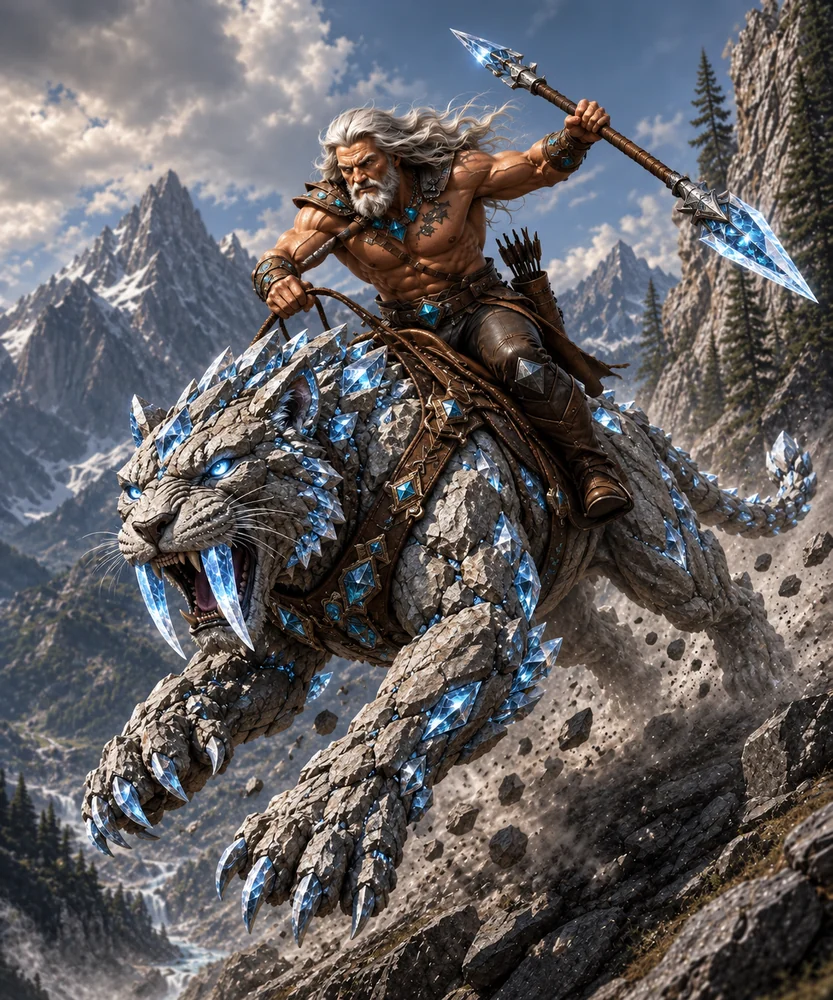
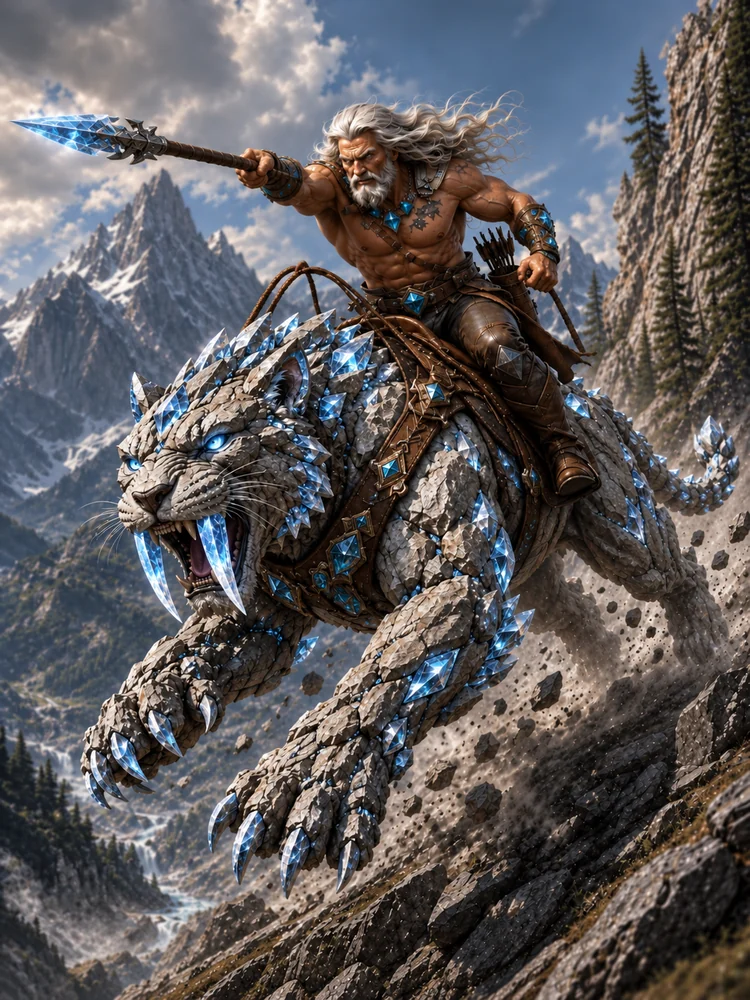
feat(cards): Cragrider is Crystal Sabor, with the plate to match
Name and art together. `bore_rohojohn` stays the id — saves and deck codes
are keyed on it, and so is the art file, which is why the plate goes to
`bore_rohojohn.webp` rather than to anything resembling either name.

The old name was in NINE places, only one of which was the card: a
custom-deck comment, the marker beside its lore entry, the War Mount
comments in combat.ts and twice in types.ts, and three test titles. All
renamed, because a test called "Cragrider's War Mount" names a card that
no longer exists and sends the next reader looking for it. The lore line
itself never used the name, so the prose is untouched.

Plate through the usual pipeline (public/cards/README.md): 1086x1448 in,
750x1000 out — the folder's commonest shape — 233K down to 203K, replacing
the Cragrider plate added an hour ago.

Two spellings arrived with this one: the file is `bore_Crystel Sabor.png`
and the request said "crystal sabor". Went with the request.

diff --git a/src/engine/types.ts b/src/engine/types.ts
@@ -1378,7 +1378,7 @@ export interface CardDef {
    *  comes from. The card face prints "Wind Wake — every landed hit shoves…"
    *  instead of an unnamed sentence. Per-CARD, not per-field, because the same
    *  mechanic is named differently on different cards: summonSelfShields is
-   *  "War Ready" on WarPhant and "War Mount" on Cragrider. */
+   *  "War Ready" on WarPhant and "War Mount" on Crystal Sabor. */
   passiveNames?: Record<string, string>;
   /** Intimidation (Oakgre): while this card lives, every ENEMY within `rows`
    *  rows of it whose own DMG is LOWER than this card's loses `dmg` from its
@@ -1433,7 +1433,7 @@ export interface CardDef {
   /** Fog Settlement (Misty): on summon, its owner's battlefield gains N rounds
    *  of the fog (see PlayerState.foggedRounds). */
   summonFog?: number;
-  /** War Mount (Cragrider): a mounted Ranger also mauls what it stands beside —
+  /** War Mount (Crystal Sabor): a mounted Ranger also mauls what it stands beside —
    *  its BASIC gains +N damage against a target inside melee reach. Modelled as
    *  a proximity bonus rather than a literal second attack, which keeps it on
    *  one damage path instead of inventing a dual-attack system. */

diff --git a/src/engine/combat.ts b/src/engine/combat.ts
@@ -1326,7 +1326,7 @@ export function resolveHit(
     // on the board shows the halved figure. Scaling again here would quarter it.
     if (opts.kind !== "basic" && attacker.statScale != null && attacker.statScale !== 1)
       remaining = Math.max(0, Math.floor(remaining * attacker.statScale));
-    // War Mount (Cragrider): the mount mauls whatever the Ranger stands beside —
+    // War Mount (Crystal Sabor): the mount mauls whatever the Ranger stands beside —
     // its BASIC hits an ADJACENT target for extra. Applied here rather than in
     // effectiveDmg because it depends on the TARGET's distance, which
     // effectiveDmg has no way to see.

diff --git a/src/data/custom-decks.ts b/src/data/custom-decks.ts
@@ -218,7 +218,7 @@ const STANDARD_DECKS: PremadeDeck[] = [
     // deep in a sixteen-card deck.
     // Refresh: dropped aqua_piranha (appeared constantly, measured ~0 impact) and
     // bore_armadillo (rarely reached the board) for Misty (Fog utility) and
-    // Cragrider — a ranged 7 that gives the grind deck a backline poke it lacked.
+    // Crystal Sabor — a ranged 7 that gives the grind deck a backline poke it lacked.
     cards: [
       "bore_hillbilly", "aqua_misty", "aqua_subcool", "aqua_kinguin", "aqua_octoirate",
       "aqua_owlette", "bore_shift", "aqua_blackbeard", "bore_monger", "aqua_polarbear",

diff --git a/src/engine/__tests__/specials.test.ts b/src/engine/__tests__/specials.test.ts
@@ -1326,7 +1326,7 @@ describe("lateral charge — riders track their victim across columns", () => {
     expect(gap(pos!, { row: 1, col: 2 })).toBe(1);
   });
 
-  it("Cragrider's Battle Charge still ploughs STRAIGHT ahead and stalls when blocked", () => {
+  it("Crystal Sabor's Battle Charge still ploughs STRAIGHT ahead and stalls when blocked", () => {
     // Its text promises "every opponent straight ahead" — the lateral charge is
     // opt-in precisely so this one keeps its lane and its stopping behaviour.
     const s = prepState();

diff --git a/src/engine/__tests__/added-cards-fire.test.ts b/src/engine/__tests__/added-cards-fire.test.ts
@@ -149,8 +149,8 @@ describe("added cards: every ability fires", () => {
   });
 });
 
-describe("wave 1: Cragrider, Dynamo, Lumberjack, Bootlegger", () => {
-  it("Cragrider's War Mount arrives armoured and mauls at melee range", () => {
+describe("wave 1: Crystal Sabor, Dynamo, Lumberjack, Bootlegger", () => {
+  it("Crystal Sabor's War Mount arrives armoured and mauls at melee range", () => {
     const s = prepState();
     s.players.P1.gold = 9;
     const near = place(s, "dusk_gool", "P2", 2, 0, { curHp: 60, maxHp: 60, curShields: 0 });

diff --git a/src/data/lore/bore.ts b/src/data/lore/bore.ts
@@ -85,7 +85,7 @@ export const BORE_LORE: Record<string, string> = {
   bore_obsidi: // Obsidian
     "Underground it moves quickly, which is the only place it does. What comes back up is not the size that went down.",
 
-  bore_rohojohn: // Cragrider
+  bore_rohojohn: // Crystal Sabor
     "The mount does its own mauling. Whatever stands beside your target does not get to watch.",
 
   bore_bolder:

diff --git a/src/data/cards.ts b/src/data/cards.ts
@@ -5142,7 +5142,7 @@ export const CARDS: CardDef[] = [
   // ── Wave 1 of the eight new element cards ──────────────────────────────────
   {
     id: "bore_rohojohn",
-    name: "Cragrider",
+    name: "Crystal Sabor",
     rarity: "epic",
     element: "BORE",
     cardClass: "Ranger",
